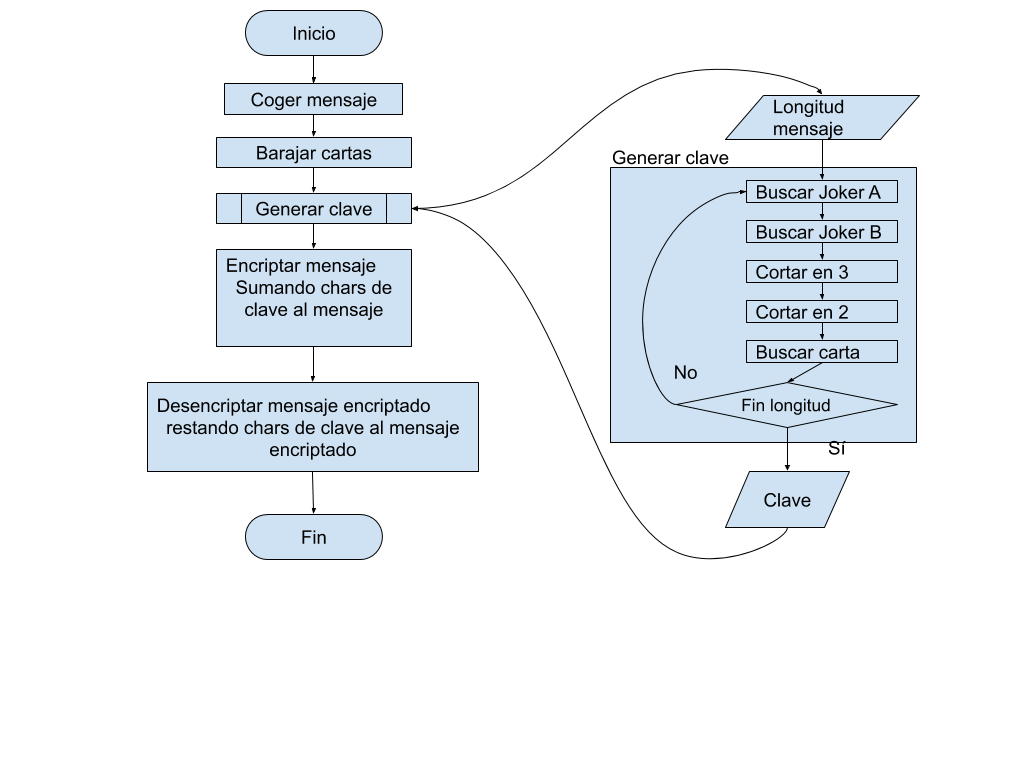
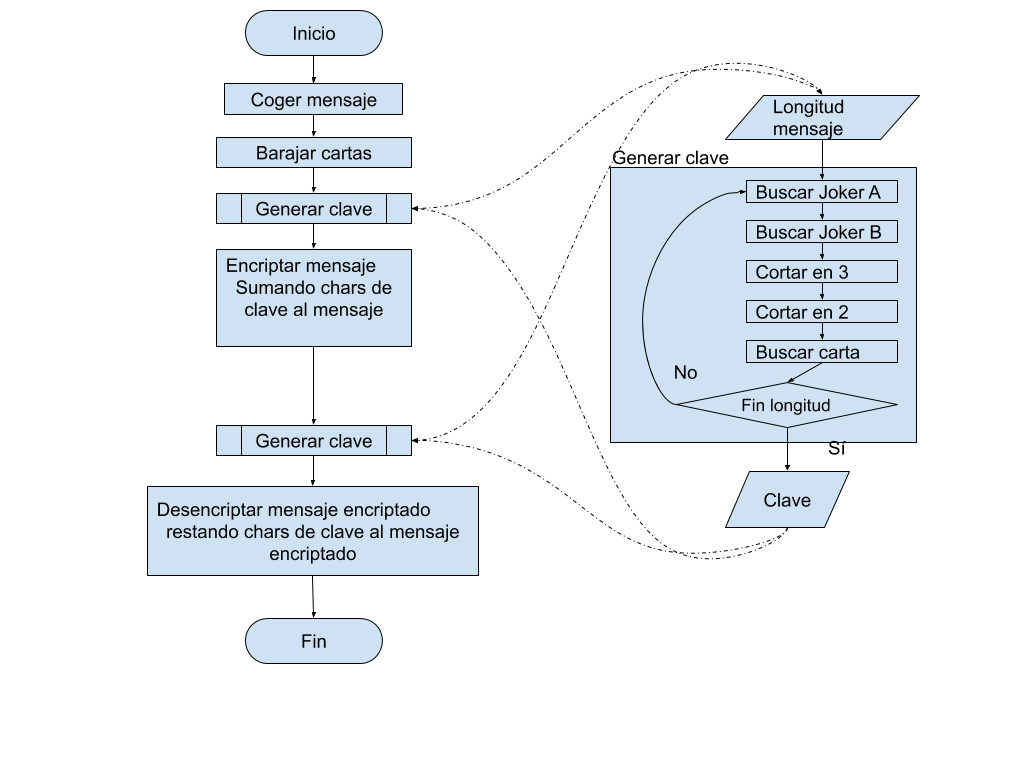
Se modifica diagráma de flujo añadiendo generar clave

Changed region(s): [[0.125, 0.4688, 0.4688, 0.75], [0.2188, 0.7812, 0.375, 0.875]]

diff --git a/tarea_23/readme.md b/tarea_23/readme.md
@@ -27,4 +27,4 @@ Para ejecutarlo, se requiere tener python instalado. Abrir una consola, ir a la 
 Y ejecutar >solitario.py  
 
 Se debe introducir el mensaje de texto a cifrar.  
-Y se devuelve el mensaje cifrado y descifrado, que éste último debe coincidir con el mensaje de entrada.  
+Y se devuelve el mensaje cifrado y descifrado. Éste último debe coincidir con el mensaje de entrada.  
